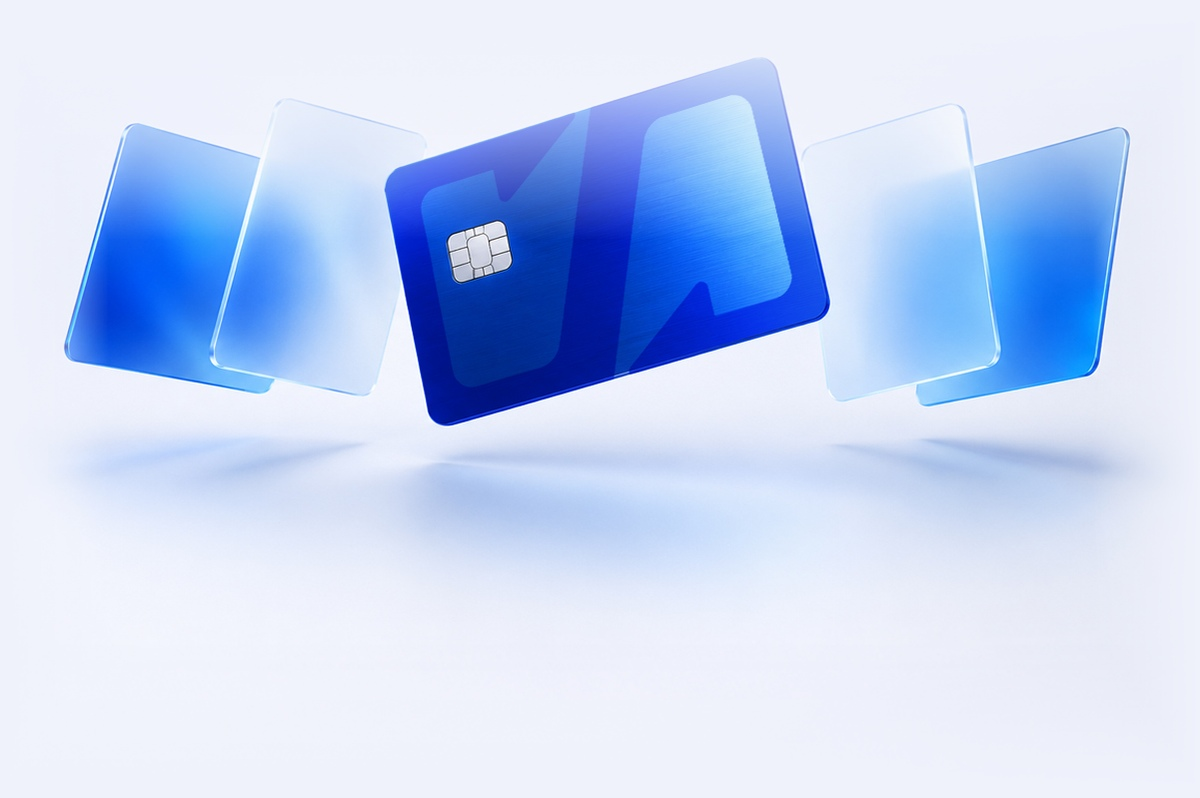
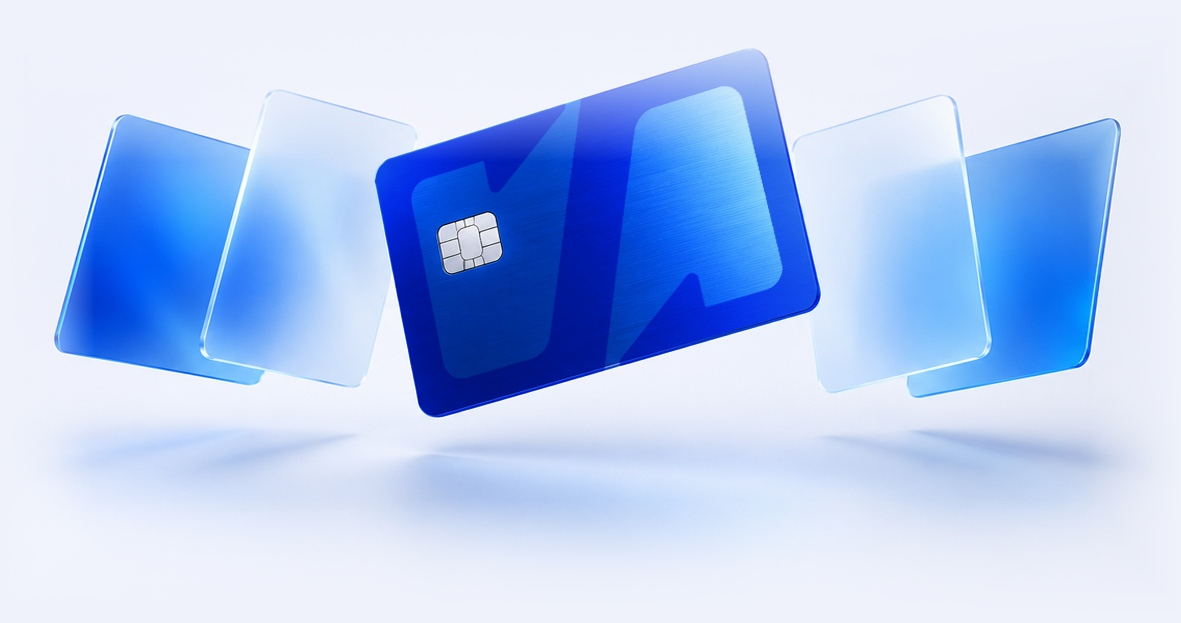
모바일 헤더 — 카드 하단 정렬 · 이미지 확대

diff --git a/index.html b/index.html
@@ -45,12 +45,12 @@
 
   /* 모바일 — 이미지 크게 · 가운데 정렬 */
   @media(max-width:767px){
-    .hero{background-color:#EFF2FB; background-image:url('img/hero-bg10-m.jpg?v=8');
-      background-size:min(150%, 66svh) auto; background-position:center calc(100% - 88px);
+    .hero{background-color:#EFF2FB; background-image:url('img/hero-bg10-m.jpg?v=9');
+      background-size:min(142%, 62svh) auto; background-position:center calc(100% - 84px);
       /* 화면 하나에 딱 — 이미지 · SCROLL 자리는 고정하고 글은 남는 공간 가운데 */
       min-height:calc(100svh - var(--appbar));
       display:flex; flex-direction:column; justify-content:center;
-      padding:20px 0 calc(min(99vw, 44svh) + 88px);}
+      padding:20px 0 calc(min(75vw, 33svh) + 84px);}
     .hero .hero2{text-align:center;}
     .hero .hleft{display:block;}
     .hero .hero2 .hbtns{justify-content:center; margin-top:22px; flex-wrap:nowrap;}
@@ -591,9 +591,9 @@
   }
   /* 세로가 짧은 폰 — 이미지 비중 줄여 한 화면 유지 */
   @media(max-width:767px) and (max-height:730px){
-    .hero{background-size:min(130%, 44svh) auto;
-      background-position:center calc(100% - 62px);
-      padding:14px 0 calc(min(80vw, 29svh) + 62px);}
+    .hero{background-size:min(126%, 62svh) auto;
+      background-position:center calc(100% - 58px);
+      padding:14px 0 calc(min(67vw, 33svh) + 58px);}
     .sdown{bottom:14px;}
     .sdown .mouse{width:20px; height:32px;}
     .sdown b{font-size:9.5px;}
